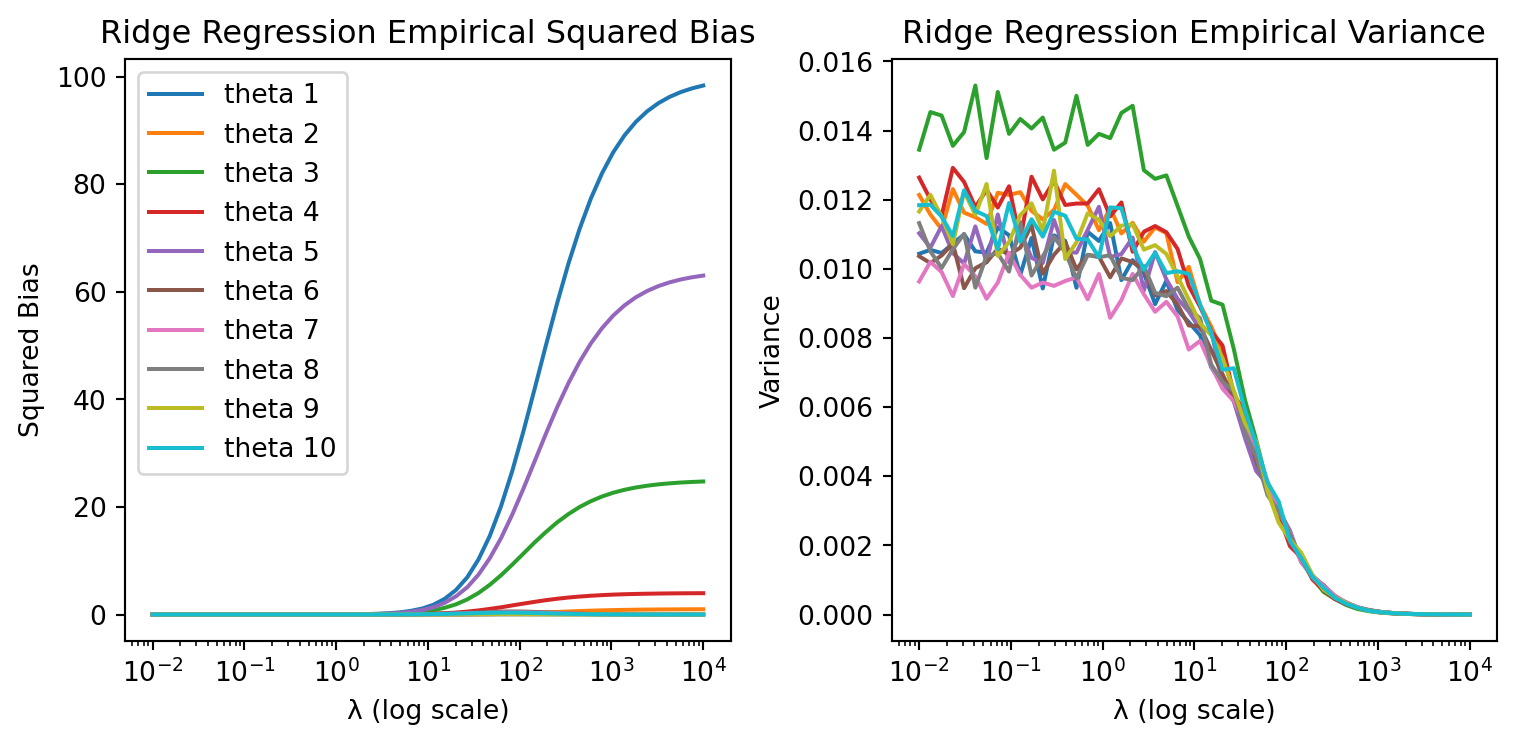
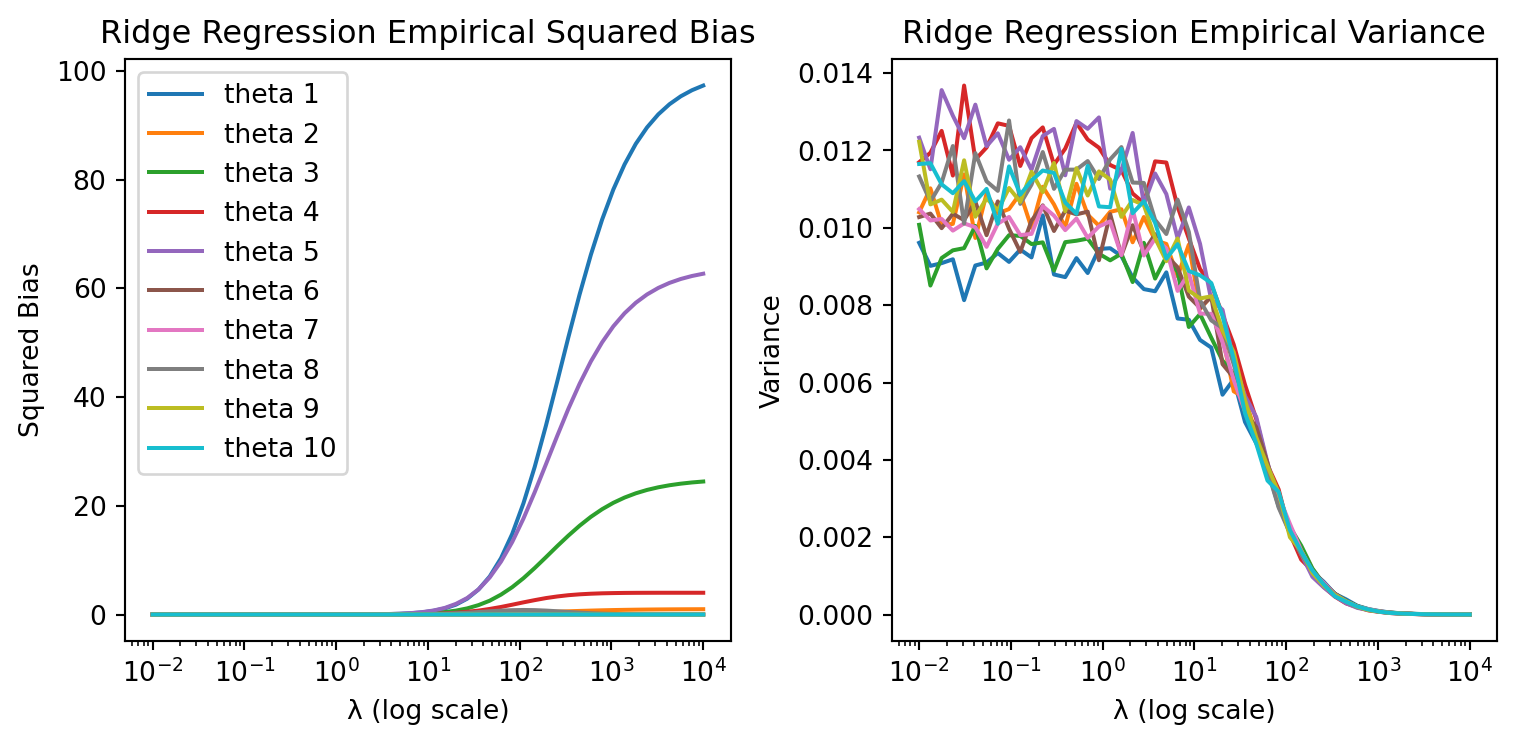
Built site for gh-pages

diff --git a/3A/Apprentisage-stat/Tp1.html b/3A/Apprentisage-stat/Tp1.html
@@ -247,7 +247,7 @@ window.Quarto = {
 <p>where <span class="math inline">\(\sigma^2\)</span> is the variance of the noise in the data.</p>
 <p><u>Hint to prove the bias formula</u> : factorize by <span class="math inline">\(\lambda ( X^TX + \lambda I_d)^{-1}\)</span></p>
 <p>In this activity, we will numerically check the formula for the bias and the variance by generating random data and calculating the squared bias of the sample mean. Let’s start by create a function to generate the data with a noise <span class="math inline">\(\varepsilon \sim \mathcal{N}(0,\sigma^2)\)</span>.</p>
-<div id="e99d5238" class="cell" data-execution_count="1">
+<div id="596963f0" class="cell" data-execution_count="1">
 <div class="sourceCode cell-code" id="cb1"><pre class="sourceCode python code-with-copy"><code class="sourceCode python"><span id="cb1-1"><a href="#cb1-1" aria-hidden="true" tabindex="-1"></a><span class="co">#Q1 : Function that generates data from a linear model</span></span>
 <span id="cb1-2"><a href="#cb1-2" aria-hidden="true" tabindex="-1"></a><span class="im">import</span> numpy <span class="im">as</span> np</span>
 <span id="cb1-3"><a href="#cb1-3" aria-hidden="true" tabindex="-1"></a></span>
@@ -258,7 +258,7 @@ window.Quarto = {
 <span id="cb1-8"><a href="#cb1-8" aria-hidden="true" tabindex="-1"></a>    <span class="cf">return</span> y</span></code><button title="Copy to Clipboard" class="code-copy-button"><i class="bi"></i></button></pre></div>
 </div>
 <p>Our goal is now to illustrate the squared bias of each coefficient as a function of <span class="math inline">\(\lambda\)</span> when it varies between 10² and 10⁴ (in the log-domain). We will then generate a dataset with 100 samples and 10 features and calculate the squared bias of the coefficients and the variance for each value of <span class="math inline">\(\lambda\)</span>. The features will be generated from a normal distribution (not mandatory) and the true coefficients are fixed. We voluntarily put to 0 some coefficients to see the effect of the regularization.</p>
-<div id="992a8040" class="cell" data-execution_count="2">
+<div id="d0370eaf" class="cell" data-execution_count="2">
 <div class="sourceCode cell-code" id="cb2"><pre class="sourceCode python code-with-copy"><code class="sourceCode python"><span id="cb2-1"><a href="#cb2-1" aria-hidden="true" tabindex="-1"></a><span class="im">from</span> sklearn.linear_model <span class="im">import</span> Ridge</span>
 <span id="cb2-2"><a href="#cb2-2" aria-hidden="true" tabindex="-1"></a><span class="im">import</span> matplotlib.pyplot <span class="im">as</span> plt</span>
 <span id="cb2-3"><a href="#cb2-3" aria-hidden="true" tabindex="-1"></a></span>
@@ -269,7 +269,7 @@ window.Quarto = {
 <span id="cb2-8"><a href="#cb2-8" aria-hidden="true" tabindex="-1"></a>X <span class="op">=</span> np.random.normal(loc<span class="op">=</span><span class="dv">0</span>, scale<span class="op">=</span><span class="dv">1</span>, size<span class="op">=</span>(n, d)) <span class="co">#features</span></span></code><button title="Copy to Clipboard" class="code-copy-button"><i class="bi"></i></button></pre></div>
 </div>
 <p>To compute numerically the bias and the variance of the ridge regression, we will generation 200 datasets. We will then, for each <span class="math inline">\(\lambda\)</span>, store the mean of each coefficients (in order to compute the numerical bias) and the standard deviation (to compute the numerical variance).</p>
-<div id="a425c2e5" class="cell" data-execution_count="3">
+<div id="60d1a017" class="cell" data-execution_count="3">
 <div class="sourceCode cell-code" id="cb3"><pre class="sourceCode python code-with-copy"><code class="sourceCode python"><span id="cb3-1"><a href="#cb3-1" aria-hidden="true" tabindex="-1"></a>n_sim<span class="op">=</span><span class="dv">1000</span></span>
 <span id="cb3-2"><a href="#cb3-2" aria-hidden="true" tabindex="-1"></a>estimated_theta <span class="op">=</span> np.zeros((n_sim,d)) <span class="co">#store the estimated theta for each simulation</span></span>
 <span id="cb3-3"><a href="#cb3-3" aria-hidden="true" tabindex="-1"></a>bias_squared <span class="op">=</span> np.zeros((<span class="bu">len</span>(lambda_grid),d)) <span class="co">#store the squared bias for each lambda</span></span>
@@ -284,7 +284,7 @@ window.Quarto = {
 <span id="cb3-12"><a href="#cb3-12" aria-hidden="true" tabindex="-1"></a>    bias_squared[idx,:]<span class="op">=</span>(np.mean(estimated_theta,axis<span class="op">=</span><span class="dv">0</span>)<span class="op">-</span>theta)<span class="op">**</span><span class="dv">2</span></span>
 <span id="cb3-13"><a href="#cb3-13" aria-hidden="true" tabindex="-1"></a>    variance[idx,:] <span class="op">=</span> np.std(estimated_theta,axis<span class="op">=</span><span class="dv">0</span>)<span class="op">**</span><span class="dv">2</span></span></code><button title="Copy to Clipboard" class="code-copy-button"><i class="bi"></i></button></pre></div>
 </div>
-<div id="7690bb7f" class="cell" data-execution_count="4">
+<div id="80f59a12" class="cell" data-execution_count="4">
 <div class="sourceCode cell-code" id="cb4"><pre class="sourceCode python code-with-copy"><code class="sourceCode python"><span id="cb4-1"><a href="#cb4-1" aria-hidden="true" tabindex="-1"></a>fig, axes <span class="op">=</span> plt.subplots(<span class="dv">1</span>, <span class="dv">2</span>, figsize<span class="op">=</span>(<span class="dv">8</span>, <span class="dv">4</span>))</span>
 <span id="cb4-2"><a href="#cb4-2" aria-hidden="true" tabindex="-1"></a></span>
 <span id="cb4-3"><a href="#cb4-3" aria-hidden="true" tabindex="-1"></a><span class="cf">for</span> i <span class="kw">in</span> <span class="bu">range</span>(d):</span>
@@ -314,7 +314,7 @@ window.Quarto = {
 </div>
 </div>
 </div>
-<div id="0e6e92dd" class="cell" data-execution_count="5">
+<div id="5f1bb762" class="cell" data-execution_count="5">
 <div class="sourceCode cell-code" id="cb5"><pre class="sourceCode python code-with-copy"><code class="sourceCode python"><span id="cb5-1"><a href="#cb5-1" aria-hidden="true" tabindex="-1"></a><span class="co">#Plot squared theorical bias : −λ(X^T X + λId) (−1) θ</span></span>
 <span id="cb5-2"><a href="#cb5-2" aria-hidden="true" tabindex="-1"></a>bias_theoretical <span class="op">=</span> np.zeros((<span class="bu">len</span>(lambda_grid), d))</span>
 <span id="cb5-3"><a href="#cb5-3" aria-hidden="true" tabindex="-1"></a>variance_theorical <span class="op">=</span> np.zeros((<span class="bu">len</span>(lambda_grid), d))</span>
@@ -323,7 +323,7 @@ window.Quarto = {
 <span id="cb5-6"><a href="#cb5-6" aria-hidden="true" tabindex="-1"></a>    bias_theoretical[idx, :] <span class="op">=</span> (<span class="op">-</span>alpha <span class="op">*</span> np.linalg.inv(X.T <span class="op">@</span> X <span class="op">+</span> alpha <span class="op">*</span> np.eye(d)) <span class="op">@</span> theta)<span class="op">**</span><span class="dv">2</span></span>
 <span id="cb5-7"><a href="#cb5-7" aria-hidden="true" tabindex="-1"></a>    variance_theorical[idx,:] <span class="op">=</span> np.diag((<span class="dv">1</span> <span class="op">*</span> np.linalg.inv(alpha <span class="op">*</span> np.eye(d) <span class="op">+</span> X.T <span class="op">@</span> X)<span class="op">**</span><span class="dv">2</span> <span class="op">@</span> (X.T <span class="op">@</span> X)))</span>
 <span id="cb5-8"><a href="#cb5-8" aria-hidden="true" tabindex="-1"></a>    </span>
-<span id="cb5-9"><a href="#cb5-9" aria-hidden="true" tabindex="-1"></a>fig,axes <span class="op">=</span> plt.subplots(<span class="dv">1</span>,<span class="dv">2</span>,figsize<span class="op">=</span>(<span class="dv">14</span>,<span class="dv">6</span>))</span>
+<span id="cb5-9"><a href="#cb5-9" aria-hidden="true" tabindex="-1"></a>fig,axes <span class="op">=</span> plt.subplots(<span class="dv">1</span>,<span class="dv">2</span>,figsize<span class="op">=</span>(<span class="dv">8</span>,<span class="dv">4</span>))</span>
 <span id="cb5-10"><a href="#cb5-10" aria-hidden="true" tabindex="-1"></a></span>
 <span id="cb5-11"><a href="#cb5-11" aria-hidden="true" tabindex="-1"></a><span class="cf">for</span> i <span class="kw">in</span> <span class="bu">range</span>(d):</span>
 <span id="cb5-12"><a href="#cb5-12" aria-hidden="true" tabindex="-1"></a>    axes[<span class="dv">0</span>].plot(lambda_grid, bias_theoretical[:, i], label<span class="op">=</span><span class="ss">f'theta </span><span class="sc">{</span>i<span class="op">+</span><span class="dv">1</span><span class="sc">}</span><span class="ss">'</span>)</span>
@@ -346,7 +346,7 @@ window.Quarto = {
 <div class="cell-output cell-output-display">
 <div>
 <figure class="figure">
-<p><img src="Tp1_files/figure-html/cell-6-output-2.png" width="1114" height="525" class="figure-img"></p>
+<p><img src="Tp1_files/figure-html/cell-6-output-2.png" width="678" height="377" class="figure-img"></p>
 </figure>
 </div>
 </div>
@@ -364,7 +364,7 @@ window.Quarto = {
 <p><span class="math display">\[
 \theta ^* = argmin_{\theta} \left\{ || Y - X \theta||_2 + \lambda ||\theta||_1 \right\}
 \]</span></p>
-<div id="9043844a" class="cell" data-execution_count="6">
+<div id="8abe3b43" class="cell" data-execution_count="6">
 <div class="sourceCode cell-code" id="cb7"><pre class="sourceCode python code-with-copy"><code class="sourceCode python"><span id="cb7-1"><a href="#cb7-1" aria-hidden="true" tabindex="-1"></a><span class="im">from</span> sklearn.linear_model <span class="im">import</span> Lasso</span>
 <span id="cb7-2"><a href="#cb7-2" aria-hidden="true" tabindex="-1"></a></span>
 <span id="cb7-3"><a href="#cb7-3" aria-hidden="true" tabindex="-1"></a>lasso_bias_squared <span class="op">=</span> np.zeros((<span class="bu">len</span>(lambda_grid), d))</span>
@@ -380,7 +380,7 @@ window.Quarto = {
 <span id="cb7-13"><a href="#cb7-13" aria-hidden="true" tabindex="-1"></a>        lasso_bias_squared[idx, :] <span class="op">=</span> (np.mean(estimated_theta_lasso,axis<span class="op">=</span><span class="dv">0</span>)<span class="op">-</span> theta) <span class="op">**</span> <span class="dv">2</span></span>
 <span id="cb7-14"><a href="#cb7-14" aria-hidden="true" tabindex="-1"></a>        variance_lasso[idx, :] <span class="op">=</span> np.std(estimated_theta_lasso, axis<span class="op">=</span><span class="dv">0</span>) <span class="op">**</span> <span class="dv">2</span></span></code><button title="Copy to Clipboard" class="code-copy-button"><i class="bi"></i></button></pre></div>
 </div>
-<div id="28300d7f" class="cell" data-execution_count="7">
+<div id="056c37a8" class="cell" data-execution_count="7">
 <div class="sourceCode cell-code" id="cb8"><pre class="sourceCode python code-with-copy"><code class="sourceCode python"><span id="cb8-1"><a href="#cb8-1" aria-hidden="true" tabindex="-1"></a>fig, axes <span class="op">=</span> plt.subplots(<span class="dv">1</span>, <span class="dv">2</span>, figsize<span class="op">=</span>(<span class="dv">8</span>, <span class="dv">4</span>))</span>
 <span id="cb8-2"><a href="#cb8-2" aria-hidden="true" tabindex="-1"></a></span>
 <span id="cb8-3"><a href="#cb8-3" aria-hidden="true" tabindex="-1"></a><span class="cf">for</span> i <span class="kw">in</span> <span class="bu">range</span>(d):</span>
@@ -415,11 +415,11 @@ window.Quarto = {
 <h1>Activity 2 : Contamination dataset</h1>
 <p>We now work with a dataset related to diabetes. The initial data consists of <span class="math inline">\(n\)</span> = 442 patients and <span class="math inline">\(d\)</span> = 10 covariates and the output variable <span class="math inline">\(Y\)</span> is a score reflecting the disease progressing. During a cyberattack of the hospital housing the data, a bad robot has contaminated the dataset by adding 200 inappropriate exploratory variables. Since simply noising the data was not sufficient for the robot, he also arbitrarily permuted the variables. To complete the picture, the robot has erased any trace of his villainous act and thus we do not know which variables are relevant. The new data set contains <span class="math inline">\(n\)</span> = 442 patients and <span class="math inline">\(d\)</span> = 210 covariates.</p>
 <p>We are trying to resolve the enigma created by the playful machine and retrieve the relevant variables. We will hence use a regularized regression model to select the relevant variables.</p>
-<div id="b6e3c9c3" class="cell" data-execution_count="8">
+<div id="b4318692" class="cell" data-execution_count="8">
 <div class="sourceCode cell-code" id="cb9"><pre class="sourceCode python code-with-copy"><code class="sourceCode python"><span id="cb9-1"><a href="#cb9-1" aria-hidden="true" tabindex="-1"></a><span class="im">import</span> warnings </span>
 <span id="cb9-2"><a href="#cb9-2" aria-hidden="true" tabindex="-1"></a>warnings.filterwarnings(<span class="st">'ignore'</span>)</span></code><button title="Copy to Clipboard" class="code-copy-button"><i class="bi"></i></button></pre></div>
 </div>
-<div id="4862e51b" class="cell" data-execution_count="9">
+<div id="43dff915" class="cell" data-execution_count="9">
 <div class="sourceCode cell-code" id="cb10"><pre class="sourceCode python code-with-copy"><code class="sourceCode python"><span id="cb10-1"><a href="#cb10-1" aria-hidden="true" tabindex="-1"></a><span class="co">#read data from csv file</span></span>
 <span id="cb10-2"><a href="#cb10-2" aria-hidden="true" tabindex="-1"></a><span class="im">import</span> pandas <span class="im">as</span> pd</span>
 <span id="cb10-3"><a href="#cb10-3" aria-hidden="true" tabindex="-1"></a>data <span class="op">=</span> pd.read_csv(<span class="st">"data_dm3.csv"</span>, sep<span class="op">=</span><span class="st">","</span>, header<span class="op">=</span><span class="va">None</span>)</span>
@@ -589,7 +589,7 @@ window.Quarto = {
 </div>
 </div>
 <p>First, we will split the dataset into training and test sets. We will use the first 80% of the dataset for training and the remaining 20% for testing.</p>
-<div id="67fd0a05" class="cell" data-execution_count="10">
+<div id="4ecdcc81" class="cell" data-execution_count="10">
 <div class="sourceCode cell-code" id="cb11"><pre class="sourceCode python code-with-copy"><code class="sourceCode python"><span id="cb11-1"><a href="#cb11-1" aria-hidden="true" tabindex="-1"></a><span class="co"># split dataset to train and test</span></span>
 <span id="cb11-2"><a href="#cb11-2" aria-hidden="true" tabindex="-1"></a><span class="im">from</span> sklearn.model_selection <span class="im">import</span> train_test_split</span>
 <span id="cb11-3"><a href="#cb11-3" aria-hidden="true" tabindex="-1"></a></span>
@@ -609,21 +609,21 @@ Test size (proportion) :  0.20</code></pre>
 <h2 class="anchored" data-anchor-id="ridge-regression-1">1. Ridge regression</h2>
 <p>On training samples, we will try to fit a linear model using Ridge regression by choosing the regularization parameter <span class="math inline">\(\lambda\)</span> by cross-validation. We will use the function <code>RidgeCV</code> from the <code>sklearn</code> library to perform the cross-validation. Since we didn’t center the covariables, we will set the parameter <code>fit_intercept</code> to <code>True</code> in order to include an intercept in the model.</p>
 <pre><code>By default, the function that performs the cross validation in ridge regression performs "leave-one-out" cross-validation. In fact, leave-one-out cross-validation is a special case of k-fold cross-validation where k is equal to the number of samples. It is computationally expensive, but it is useful for small datasets. However, in ridge regression can be useful since the formula of shermann-morrison-woodbury can be used in order to use the estimator of a single ridge regession in other to compute the estimator of the leave-one-out cross-validation.</code></pre>
-<div id="dded6fde" class="cell" data-execution_count="11">
+<div id="1621dff5" class="cell" data-execution_count="11">
 <div class="sourceCode cell-code" id="cb14"><pre class="sourceCode python code-with-copy"><code class="sourceCode python"><span id="cb14-1"><a href="#cb14-1" aria-hidden="true" tabindex="-1"></a><span class="im">from</span> sklearn.linear_model <span class="im">import</span> RidgeCV</span>
 <span id="cb14-2"><a href="#cb14-2" aria-hidden="true" tabindex="-1"></a></span>
 <span id="cb14-3"><a href="#cb14-3" aria-hidden="true" tabindex="-1"></a>lambda_grid <span class="op">=</span> np.logspace(<span class="op">-</span><span class="dv">2</span>, <span class="dv">4</span>, <span class="dv">50</span>)</span>
 <span id="cb14-4"><a href="#cb14-4" aria-hidden="true" tabindex="-1"></a>ridge_cv <span class="op">=</span> RidgeCV(alphas<span class="op">=</span>lambda_grid,fit_intercept<span class="op">=</span><span class="va">True</span>).fit(X_train, y_train) <span class="co">#to perform cross validation</span></span></code><button title="Copy to Clipboard" class="code-copy-button"><i class="bi"></i></button></pre></div>
 </div>
 <p>We might interested in visualizing the path of the coefficients as a function of the regularization parameter λ. This is called regularization path. We can do this by fitting the model for different values of λ and store the coefficients.</p>
-<div id="114c4c59" class="cell" data-execution_count="12">
+<div id="4f5d0048" class="cell" data-execution_count="12">
 <div class="sourceCode cell-code" id="cb15"><pre class="sourceCode python code-with-copy"><code class="sourceCode python"><span id="cb15-1"><a href="#cb15-1" aria-hidden="true" tabindex="-1"></a><span class="co"># plot the coefficients as a function of lambda</span></span>
 <span id="cb15-2"><a href="#cb15-2" aria-hidden="true" tabindex="-1"></a>coefs <span class="op">=</span> []</span>
 <span id="cb15-3"><a href="#cb15-3" aria-hidden="true" tabindex="-1"></a><span class="cf">for</span> a <span class="kw">in</span> lambda_grid:</span>
 <span id="cb15-4"><a href="#cb15-4" aria-hidden="true" tabindex="-1"></a>    ridge <span class="op">=</span> Ridge(alpha<span class="op">=</span>a, fit_intercept<span class="op">=</span><span class="va">True</span>).fit(X, y)</span>
 <span id="cb15-5"><a href="#cb15-5" aria-hidden="true" tabindex="-1"></a>    coefs.append(ridge.coef_)</span></code><button title="Copy to Clipboard" class="code-copy-button"><i class="bi"></i></button></pre></div>
 </div>
-<div id="170b9497" class="cell" data-execution_count="13">
+<div id="4d18bbbf" class="cell" data-execution_count="13">
 <div class="sourceCode cell-code" id="cb16"><pre class="sourceCode python code-with-copy"><code class="sourceCode python"><span id="cb16-1"><a href="#cb16-1" aria-hidden="true" tabindex="-1"></a>plt.figure(figsize<span class="op">=</span>(<span class="dv">8</span>, <span class="dv">6</span>))</span>
 <span id="cb16-2"><a href="#cb16-2" aria-hidden="true" tabindex="-1"></a>plt.plot(lambda_grid, coefs)</span>
 <span id="cb16-3"><a href="#cb16-3" aria-hidden="true" tabindex="-1"></a>plt.xscale(<span class="st">'log'</span>)</span>
@@ -647,7 +647,7 @@ Test size (proportion) :  0.20</code></pre>
 <p><i> In our case, it still gives an indication on the 10 variables that were relevant in the initial dataset before the contamination, but is clearly not the best method to select the relevant variables. </i></p>
 <section id="a.-check-on-the-intercept-value-of-the-model-using-lambda-found-by-cross-validation" class="level4">
 <h4 class="anchored" data-anchor-id="a.-check-on-the-intercept-value-of-the-model-using-lambda-found-by-cross-validation">a. Check on the intercept value of the model using lambda found by cross validation</h4>
-<div id="0b302902" class="cell" data-execution_count="14">
+<div id="8bb53f30" class="cell" data-execution_count="14">
 <div class="sourceCode cell-code" id="cb17"><pre class="sourceCode python code-with-copy"><code class="sourceCode python"><span id="cb17-1"><a href="#cb17-1" aria-hidden="true" tabindex="-1"></a><span class="bu">print</span>(<span class="ss">f'Intercept value : </span><span class="sc">{</span>ridge_cv<span class="sc">.</span>intercept_<span class="sc">}</span><span class="ss">'</span>)</span></code><button title="Copy to Clipboard" class="code-copy-button"><i class="bi"></i></button></pre></div>
 <div class="cell-output cell-output-stdout">
 <pre><code>Intercept value : 152.28937186306015</code></pre>
@@ -659,12 +659,12 @@ Test size (proportion) :  0.20</code></pre>
 <section id="lasso-regression-1" class="level2">
 <h2 class="anchored" data-anchor-id="lasso-regression-1">2. Lasso regression</h2>
 <p>We will now use the lasso regression to check if it can help use to select the most important variables. We will use the same lambda grid as before and also perform a cross validation. It is important to perform a cross-validation in order to choose the best value of the regularization parameter <span class="math inline">\(\lambda\)</span> as we have demonstrated in the first activity. For the lasso regression, we will use the function <code>LassoCV</code> from the <code>sklearn</code> library. By default, the function uses the coordinate descent algorithm to fit the model. It is a very efficient algorithm to solve the lasso problem because of the non-smoothness of the L1 norm.</p>
-<div id="cdeb264d" class="cell" data-execution_count="15">
+<div id="8a63cf8a" class="cell" data-execution_count="15">
 <div class="sourceCode cell-code" id="cb19"><pre class="sourceCode python code-with-copy"><code class="sourceCode python"><span id="cb19-1"><a href="#cb19-1" aria-hidden="true" tabindex="-1"></a><span class="im">from</span> sklearn.linear_model <span class="im">import</span> LassoCV</span>
 <span id="cb19-2"><a href="#cb19-2" aria-hidden="true" tabindex="-1"></a></span>
 <span id="cb19-3"><a href="#cb19-3" aria-hidden="true" tabindex="-1"></a>lasso_cv <span class="op">=</span> LassoCV(alphas<span class="op">=</span>lambda_grid,fit_intercept<span class="op">=</span><span class="va">True</span>).fit(X_train, y_train)</span></code><button title="Copy to Clipboard" class="code-copy-button"><i class="bi"></i></button></pre></div>
 </div>
-<div id="2b7c8d17" class="cell" data-execution_count="16">
+<div id="42ee4c3e" class="cell" data-execution_count="16">
 <div class="sourceCode cell-code" id="cb20"><pre class="sourceCode python code-with-copy"><code class="sourceCode python"><span id="cb20-1"><a href="#cb20-1" aria-hidden="true" tabindex="-1"></a><span class="co">#LASSO PATH</span></span>
 <span id="cb20-2"><a href="#cb20-2" aria-hidden="true" tabindex="-1"></a>coefs_lasso <span class="op">=</span> []</span>
 <span id="cb20-3"><a href="#cb20-3" aria-hidden="true" tabindex="-1"></a><span class="cf">for</span> a <span class="kw">in</span> lambda_grid:</span>
@@ -694,7 +694,7 @@ Test size (proportion) :  0.20</code></pre>
 <section id="a.-check-on-the-intercept-value-of-the-model-using-lambda-found-by-cross-validation-1" class="level4">
 <h4 class="anchored" data-anchor-id="a.-check-on-the-intercept-value-of-the-model-using-lambda-found-by-cross-validation-1">a. Check on the intercept value of the model using lambda found by cross validation</h4>
 <p>We get approximatively the same value for the intercept as the one obtained with Ridge regression.</p>
-<div id="9c8240a2" class="cell" data-execution_count="17">
+<div id="c360e201" class="cell" data-execution_count="17">
 <div class="sourceCode cell-code" id="cb22"><pre class="sourceCode python code-with-copy"><code class="sourceCode python"><span id="cb22-1"><a href="#cb22-1" aria-hidden="true" tabindex="-1"></a><span class="co"># check value of intercept</span></span>
 <span id="cb22-2"><a href="#cb22-2" aria-hidden="true" tabindex="-1"></a><span class="bu">print</span>(<span class="ss">f'Intercept value : </span><span class="sc">{</span>lasso_cv<span class="sc">.</span>intercept_<span class="sc">}</span><span class="ss">'</span>)</span></code><button title="Copy to Clipboard" class="code-copy-button"><i class="bi"></i></button></pre></div>
 <div class="cell-output cell-output-stdout">
@@ -708,7 +708,7 @@ Test size (proportion) :  0.20</code></pre>
 <p>In linear regression, we evaluate the quality of the model using the quadratic loss function. The quadratic risk is the expected value of the square of the difference between the true value and the predicted value. The mean squared error is then given by the formula:</p>
 <p><span class="math display">\[\mathcal{R}(\hat\theta) =  \frac{1}{n} \sum_{i=1}^{n} \left(y_i - \hat g(x_i) \right) ^2\]</span></p>
 <p>where <span class="math inline">\(\hat g(x)\)</span> is the predicted value of the output variable y given the input variable x, <span class="math inline">\(\hat g(x) =\hat  \theta_0 + \sum_{j=0}^d \hat \theta_j x_j\)</span>.</p>
-<div id="5db880f8" class="cell" data-execution_count="18">
+<div id="a124087e" class="cell" data-execution_count="18">
 <div class="sourceCode cell-code" id="cb24"><pre class="sourceCode python code-with-copy"><code class="sourceCode python"><span id="cb24-1"><a href="#cb24-1" aria-hidden="true" tabindex="-1"></a><span class="im">from</span> sklearn.metrics <span class="im">import</span> mean_squared_error</span>
 <span id="cb24-2"><a href="#cb24-2" aria-hidden="true" tabindex="-1"></a></span>
 <span id="cb24-3"><a href="#cb24-3" aria-hidden="true" tabindex="-1"></a>y_pred_lasso <span class="op">=</span> lasso_cv.predict(X_test)</span>
